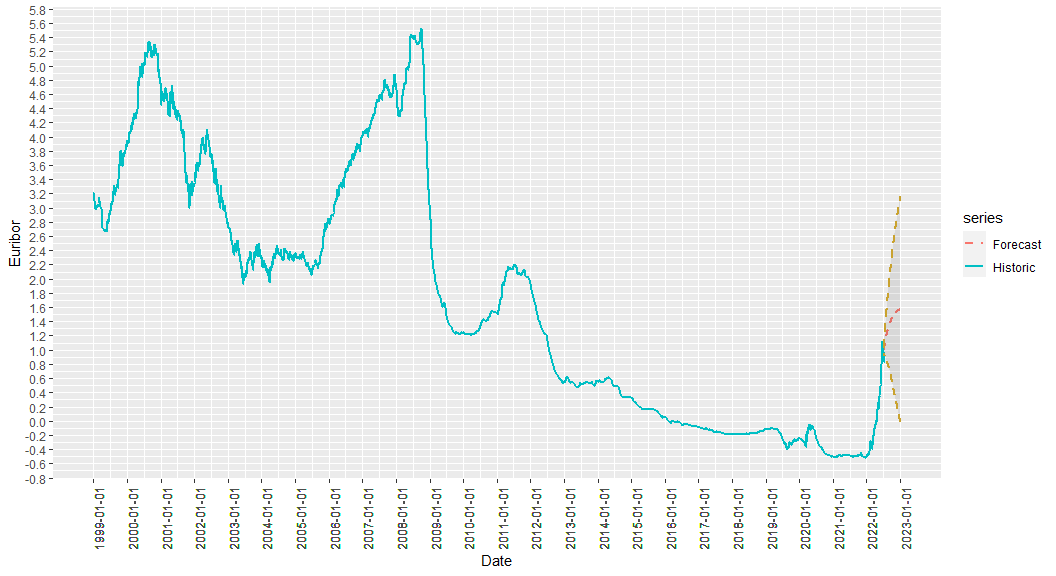
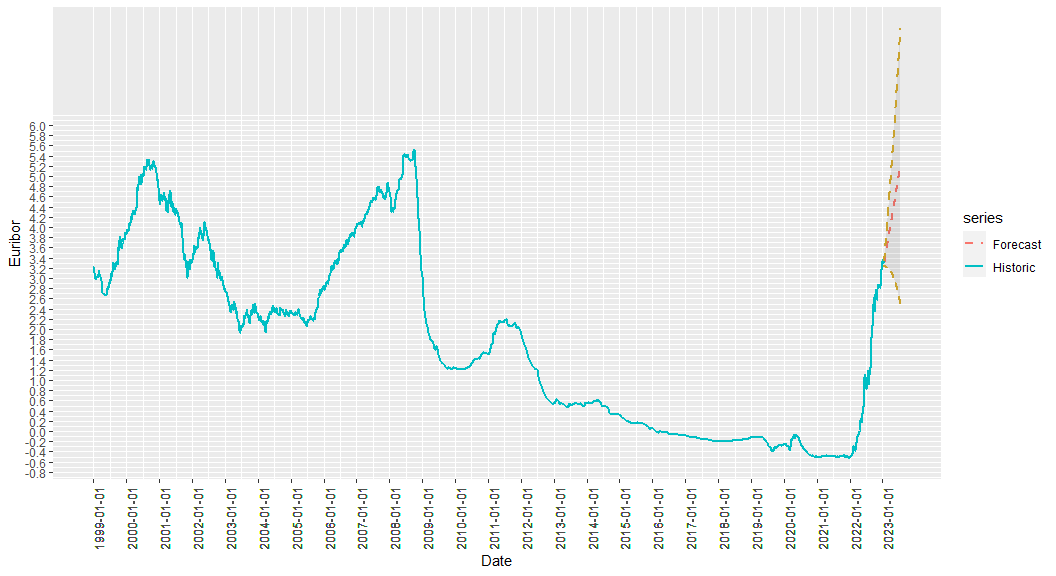
forecast update

diff --git a/Euribor_Markown.md b/Euribor_Markown.md
@@ -19,33 +19,33 @@ days.
     ## 6 1999-01-08 3.139
 
     ##            date  rate
-    ## 6036 2022-07-01 0.961
-    ## 6037 2022-07-04 0.897
-    ## 6038 2022-07-05 0.939
-    ## 6039 2022-07-06 0.839
-    ## 6040 2022-07-07 0.821
-    ## 6041 2022-07-08 0.972
+    ## 6174 2023-01-12 3.325
+    ## 6175 2023-01-13 3.315
+    ## 6176 2023-01-16 3.332
+    ## 6177 2023-01-17 3.339
+    ## 6178 2023-01-18 3.311
+    ## 6179 2023-01-19 3.300
 
 ## Preview Forecast Rates Dataset
 
-    ##         date  forecast     lo_80    hi_80     lo_95    hi_95
-    ## 1 2022-07-09 0.9952586 0.9696638 1.020853 0.9561147 1.034402
-    ## 2 2022-07-10 1.0089400 0.9702217 1.047658 0.9497255 1.068155
-    ## 3 2022-07-11 1.0180273 0.9685244 1.067530 0.9423191 1.093736
-    ## 4 2022-07-12 1.0269798 0.9681027 1.085857 0.9369350 1.117025
-    ## 5 2022-07-13 1.0357995 0.9683596 1.103239 0.9326590 1.138940
-    ## 6 2022-07-14 1.0444883 0.9690134 1.119963 0.9290594 1.159917
+    ##         date forecast    lo_80    hi_80    lo_95    hi_95
+    ## 1 2023-01-20 3.306838 3.279875 3.333801 3.265601 3.348074
+    ## 2 2023-01-21 3.316290 3.275304 3.357275 3.253608 3.378972
+    ## 3 2023-01-22 3.326659 3.273980 3.379339 3.246093 3.407225
+    ## 4 2023-01-23 3.337223 3.274345 3.400102 3.241059 3.433388
+    ## 5 2023-01-24 3.347842 3.275685 3.419998 3.237488 3.458196
+    ## 6 2023-01-25 3.358473 3.277652 3.439294 3.234868 3.482077
 
-    ##           date forecast     lo_80    hi_80        lo_95    hi_95
-    ## 175 2022-12-30 1.575259 0.5581312 2.592386  0.019696540 3.130821
-    ## 176 2022-12-31 1.575943 0.5543912 2.597494  0.013614440 3.138271
-    ## 177 2023-01-01 1.576617 0.5506530 2.602581  0.007540390 3.145694
-    ## 178 2023-01-02 1.577281 0.5469166 2.607646  0.001474461 3.153088
-    ## 179 2023-01-03 1.577936 0.5431821 2.612689 -0.004583280 3.160454
-    ## 180 2023-01-04 1.578580 0.5394497 2.617711 -0.010632766 3.167793
+    ##           date forecast    lo_80    hi_80    lo_95    hi_95
+    ## 175 2023-07-13 5.155899 3.460153 6.851644 2.562479 7.749318
+    ## 176 2023-07-14 5.166534 3.458389 6.874679 2.554151 7.778917
+    ## 177 2023-07-15 5.177170 3.456595 6.897744 2.545778 7.808562
+    ## 178 2023-07-16 5.187806 3.454772 6.920839 2.537360 7.838251
+    ## 179 2023-07-17 5.198441 3.452919 6.943963 2.528896 7.867986
+    ## 180 2023-07-18 5.209077 3.451037 6.967117 2.520387 7.897767
 
-Last historic date is 2022-07-08, forecast range went from 2022-07-09 to
-2023-01-04.
+Last historic date is 2023-01-19, forecast range went from 2023-01-20 to
+2023-07-18.
 
 ## 1 Year Historical + Forecast with 80% & 95% confidence intervals
 
